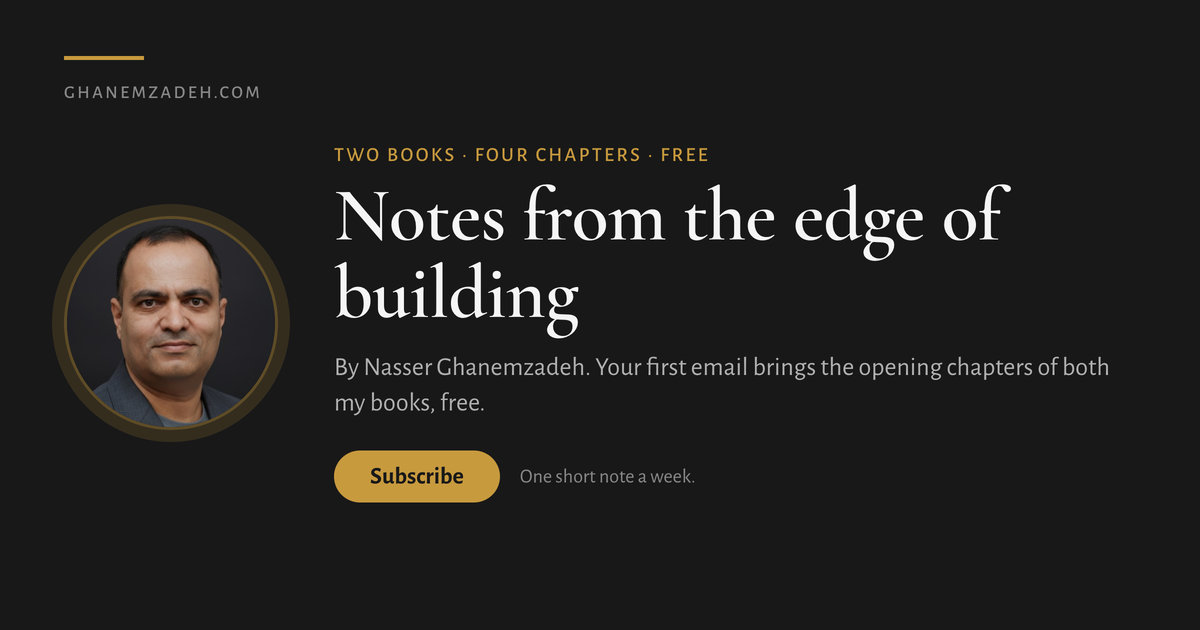
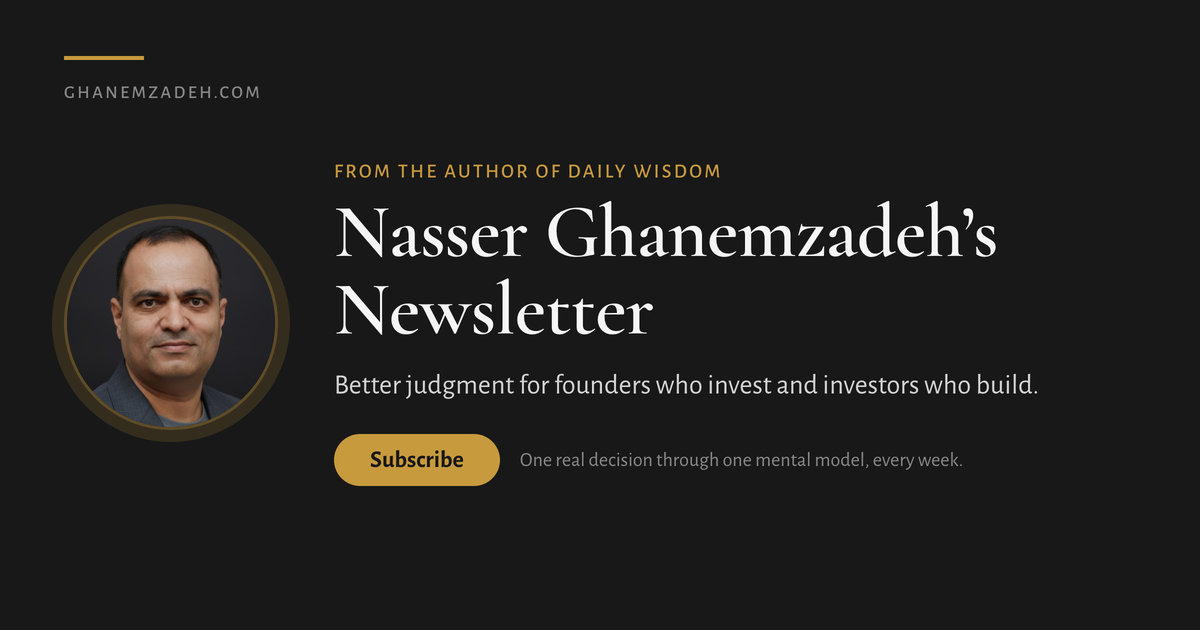
Newsletter: rename and reposition across the site, new preview card
The Substack publication is now "Nasser Ghanemzadeh's Newsletter" with the
subtitle "Better judgment for founders who invest and investors who build."
The site still called it "Notes from the edge of building" and described it
as notes on building AI-native SaaS solo with Claude Code.

- assets/og-newsletter.jpg: re-rendered card. Eyebrow "From the author of
  Daily Wisdom", the new title and subtitle, Subscribe pill with "One real
  decision through one mental model, every week." Bottom 88px still clear.
- newsletter/index.html: og/twitter title, description and image alt carry
  the new copy; image URLs get ?v=20260913 so Cloudflare and X fetch the new
  file. SEO description, JSON-LD Periodical (name + description), hero
  subhead, "Then, every week" section (topics list replaced by a four-item
  description of the one-decision, one-model format) and final CTA updated.
- index.html, forward-deployed-ai-engineer/index.html: newsletter block
  heading is now the subtitle; copy matches the new positioning.
- 404.html, llms.txt: new name and one-line description.
- Footer blurb on all 13 pages: new positioning line.
- scripts/og/newsletter-card.html: new copy; comment notes the ?v= bump
  step for future re-renders.

No CSS change, so no main.css ?v= bump. llms-full.txt regenerated.
JSON-LD validator: 13 pages, 0 errors, 0 warnings.

Claude-Session: https://claude.ai/code/session_01U9CQkRSSubGfgRUgFyfxsh

Changed region(s): [[0.2775, 0.2111, 0.8325, 0.5429], [0.2775, 0.573, 0.925, 0.8143]]

diff --git a/newsletter/index.html b/newsletter/index.html
@@ -11,7 +11,7 @@
   <meta charset="UTF-8">
   <meta name="viewport" content="width=device-width, initial-scale=1.0">
   <title>Free Chapters: Two Books in Your First Email | Nasser Ghanemzadeh</title>
-  <meta name="description" content="Subscribe to Notes from the edge of building and get the first two chapters of Forward Deployed AI Engineering and Founder Mode, free, in your first email.">
+  <meta name="description" content="Subscribe to Nasser Ghanemzadeh’s newsletter and get the first two chapters of Forward Deployed AI Engineering and Founder Mode, free, in your first email.">
   <meta name="author" content="Nasser Ghanemzadeh">
   <link rel="icon" href="/favicon.ico" type="image/x-icon">
   <link rel="icon" type="image/png" sizes="32x32" href="/favicon-32.png">
@@ -30,22 +30,22 @@
   <!-- Open Graph -->
   <meta property="og:type" content="website">
   <meta property="og:site_name" content="Nasser Ghanemzadeh">
-  <meta property="og:title" content="Notes from the edge of building | Nasser Ghanemzadeh">
-  <meta property="og:description" content="Subscribe to Notes from the edge of building and get the first two chapters of Forward Deployed AI Engineering and Founder Mode, free, in your first email.">
+  <meta property="og:title" content="Nasser Ghanemzadeh’s Newsletter">
+  <meta property="og:description" content="Better judgment for founders who invest and investors who build: a weekly letter that runs one real decision through one mental model, from the author of Daily Wisdom.">
   <meta property="og:url" content="https://ghanemzadeh.com/newsletter/">
-  <meta property="og:image" content="https://ghanemzadeh.com/assets/og-newsletter.jpg">
+  <meta property="og:image" content="https://ghanemzadeh.com/assets/og-newsletter.jpg?v=20260913">
   <meta property="og:image:width" content="1200">
   <meta property="og:image:height" content="630">
-  <meta property="og:image:alt" content="Notes from the edge of building, the weekly newsletter by Nasser Ghanemzadeh. Subscribe and get the first two chapters of both his books free.">
+  <meta property="og:image:alt" content="Nasser Ghanemzadeh’s Newsletter. Better judgment for founders who invest and investors who build. A weekly letter from the author of Daily Wisdom.">
 
   <!-- Twitter Card -->
   <meta name="twitter:card" content="summary_large_image">
   <meta name="twitter:site" content="@ghanemzadeh">
   <meta name="twitter:creator" content="@ghanemzadeh">
-  <meta name="twitter:title" content="Notes from the edge of building">
-  <meta name="twitter:description" content="Subscribe and get the first two chapters of Forward Deployed AI Engineering and Founder Mode, free, in your first email.">
-  <meta name="twitter:image" content="https://ghanemzadeh.com/assets/og-newsletter.jpg">
-  <meta name="twitter:image:alt" content="Notes from the edge of building, the weekly newsletter by Nasser Ghanemzadeh. Subscribe and get the first two chapters of both his books free.">
+  <meta name="twitter:title" content="Nasser Ghanemzadeh’s Newsletter">
+  <meta name="twitter:description" content="Better judgment for founders who invest and investors who build: a weekly letter that runs one real decision through one mental model, from the author of Daily Wisdom.">
+  <meta name="twitter:image" content="https://ghanemzadeh.com/assets/og-newsletter.jpg?v=20260913">
+  <meta name="twitter:image:alt" content="Nasser Ghanemzadeh’s Newsletter. Better judgment for founders who invest and investors who build. A weekly letter from the author of Daily Wisdom.">
 
   <script type="application/ld+json">
   {
@@ -89,12 +89,13 @@
         "@id": "https://ghanemzadeh.com/newsletter/#webpage",
         "url": "https://ghanemzadeh.com/newsletter/",
         "name": "Read the first two chapters of both my books. Free.",
-        "description": "Subscribe to Notes from the edge of building and get the first two chapters of Forward Deployed AI Engineering and Founder Mode, free, in your first email.",
+        "description": "Subscribe to Nasser Ghanemzadeh’s newsletter and get the first two chapters of Forward Deployed AI Engineering and Founder Mode, free, in your first email.",
         "inLanguage": "en",
         "isPartOf": {
           "@type": "Periodical",
           "@id": "https://ghanemzadeh.com/newsletter/#periodical",
-          "name": "Notes from the edge of building",
+          "name": "Nasser Ghanemzadeh’s Newsletter",
+          "description": "Better judgment for founders who invest and investors who build: a weekly letter that runs one real decision through one mental model.",
           "creator": { "@id": "https://ghanemzadeh.com/#nasser" },
           "publisher": { "@id": "https://ghanemzadeh.com/#nasser" }
         },
@@ -134,7 +135,7 @@
       <div class="container">
         <p class="eyebrow-num">Two books · Four chapters · Free</p>
         <h1 class="t-display">Read the first two chapters of both my books. <em>Free.</em></h1>
-        <p class="afs-subhead">Subscribe to Notes from the edge of building, my weekly newsletter, and I'll send you the opening chapters of <em>Forward Deployed AI Engineering</em> and <em>Founder Mode</em> in your first email. After that, one short note a week on building AI-native SaaS solo.</p>
+        <p class="afs-subhead">Subscribe to my weekly newsletter and I'll send you the opening chapters of <em>Forward Deployed AI Engineering</em> and <em>Founder Mode</em> in your first email. After that, one short letter a week: one real decision, run through one mental model.</p>
         <div class="nl-hero__covers">
           <div class="nl-hero__cover nl-hero__cover--fde">
             <img src="/assets/book/fde/cover-3d-tight.jpg" alt="Forward Deployed AI Engineering hardcover book" width="440" height="702" fetchpriority="high" decoding="async" loading="eager">
@@ -190,18 +191,17 @@
       <section class="section afs-section--wide nl-band">
         <div class="nl-band__intro">
           <p class="eyebrow-num">03 · Then, every week</p>
-          <h2 class="t-display">One email a week</h2>
-          <p>The newsletter is called Notes from the edge of building. The edge is where I work: building AI-native SaaS solo with Claude Code. No frameworks borrowed from Twitter threads. No promises of overnight scale. Just what is working, what is not, and what I am trying next.</p>
+          <h2 class="t-display">One decision, one mental model</h2>
+          <p>The letter is written for founders who invest and investors who build, and it has one job: better judgment. Each week takes one real decision and runs it through one mental model, the same tools <em>Daily Wisdom</em> works through a page at a time. No frameworks borrowed from Twitter threads. No promises of overnight scale. Just the decision, the model, and what the model says to do.</p>
           <div class="cta-row">
             <a class="cta cta--primary" href="#subscribe">Get the free chapters</a>
           </div>
         </div>
         <ol class="nl-topics-list">
-          <li><span class="nl-num" aria-hidden="true">01</span><p><strong>Forward Deployed AI Engineering in practice.</strong> What works in the field, what the labs are getting right and wrong.</p></li>
-          <li><span class="nl-num" aria-hidden="true">02</span><p><strong>Building AI-native products solo.</strong> Vectig as the live case study, including the failures, plus lessons from Sengi, an earlier build I paused.</p></li>
-          <li><span class="nl-num" aria-hidden="true">03</span><p><strong>Distribution without paid ads.</strong> LinkedIn, warm outreach, the referrer network.</p></li>
-          <li><span class="nl-num" aria-hidden="true">04</span><p><strong>Founder operations.</strong> Cash flow, hiring, scope, the unglamorous middle.</p></li>
-          <li><span class="nl-num" aria-hidden="true">05</span><p><strong>Claude Code workflows.</strong> The specific patterns that make a one-person shop ship like a small team.</p></li>
+          <li><span class="nl-num" aria-hidden="true">01</span><p><strong>One real decision.</strong> A hire, a raise, a price, a term sheet, a pivot. Something with money or trust on the line, not a hypothetical.</p></li>
+          <li><span class="nl-num" aria-hidden="true">02</span><p><strong>One mental model.</strong> Base rates, incentives, inversion, margin of safety. One per letter, in plain words, from the latticework <em>Daily Wisdom</em> builds over a year.</p></li>
+          <li><span class="nl-num" aria-hidden="true">03</span><p><strong>Where the judgment slips.</strong> The misjudgment the model catches, and why it is so easy to miss in the moment.</p></li>
+          <li><span class="nl-num" aria-hidden="true">04</span><p><strong>What to do on Monday.</strong> The same decision, re-run with the model in hand. Short enough to read in one sitting.</p></li>
         </ol>
       </section>
 
@@ -346,7 +346,7 @@
         <div class="nl-final__panel">
           <p class="eyebrow-num">06 · Get the chapters</p>
           <h2 class="t-display">Your first email has the chapters in it.</h2>
-          <p>Then one email a week, built for founders and operators shipping AI-native products in small teams.</p>
+          <p>Then one letter a week: one real decision through one mental model, for founders who invest and investors who build.</p>
           <form class="email-pill" action="https://ghanemzadeh.substack.com/subscribe" method="get" data-substack-redirect data-utm-medium="newsletter_final">
             <label class="visually-hidden" for="sub-email-newsletter-final">Email address</label>
             <input id="sub-email-newsletter-final" type="email" name="email" placeholder="Your email..." required autocomplete="email">
@@ -373,7 +373,7 @@
           </div>
           <div class="site-footer__col">
             <p class="site-footer__heading">Get the newsletter</p>
-            <p class="site-footer__blurb">Weekly notes on Forward Deployed AI Engineering, AI-native product, and what I'm shipping. No filler.</p>
+            <p class="site-footer__blurb">Better judgment for founders who invest and investors who build. One real decision through one mental model, every week.</p>
             <form class="email-pill" data-substack-redirect data-utm-medium="footer">
               <label class="visually-hidden" for="footer-email">Email address</label>
               <input id="footer-email" type="email" name="email" placeholder="Your email..." required autocomplete="email">

diff --git a/index.html b/index.html
@@ -259,7 +259,7 @@
           <li><span class="nl-num" aria-hidden="true">01</span><p><strong><a href="/ai-feature-sprint/">The AI Feature Sprint.</a></strong> Ten business days embedded with a founder-led B2B SaaS team, shipping one narrow AI workflow into the product. Fixed scope, fixed price, a working prototype by Day 5.</p></li>
           <li><span class="nl-num" aria-hidden="true">02</span><p><strong><a href="https://vectig.com" target="_blank" rel="noopener noreferrer">Vectig.</a></strong> AI-native cash flow forecasting for early-stage founders, built solo with Claude Code, in public. It's also my test bench: most Sprint patterns run here before a client sees them.</p></li>
           <li><span class="nl-num" aria-hidden="true">03</span><p><strong>The books.</strong> <a href="/books/daily-wisdom/">Daily Wisdom</a> is a year of one-page meditations on judgment and money, on Kindle pre-order now. <a href="/books/forward-deployed-ai-engineering/">Forward Deployed AI Engineering</a> explains the role. <a href="/book/">Founder Mode</a> explains the operating practice underneath it. For the quick version of the FDE book, read <a href="/forward-deployed-ai-engineer/">what a Forward Deployed AI Engineer is</a>, or browse <a href="/best-forward-deployed-engineer-books/">the best FDE books</a>.</p></li>
-          <li><span class="nl-num" aria-hidden="true">04</span><p><strong><a href="/newsletter/">The newsletter.</a></strong> One email a week: Claude Code workflows, AI product distribution, and the weeks where nothing works.</p></li>
+          <li><span class="nl-num" aria-hidden="true">04</span><p><strong><a href="/newsletter/">The newsletter.</a></strong> One letter a week that runs one real decision through one mental model. Better judgment for founders who invest and investors who build.</p></li>
           <li><span class="nl-num" aria-hidden="true">05</span><p><strong>Earlier projects.</strong> <a href="https://sengi.co" target="_blank" rel="noopener noreferrer">Sengi</a>, a financial OS for freelancers, built solo as a learning vehicle for AI-native financial tooling. Paused to focus on Vectig and the Sprint.</p></li>
         </ol>
       </section>
@@ -356,8 +356,8 @@
       <section class="section afs-section--wide afs-final-cta nl-final">
         <div class="nl-final__panel">
           <p class="eyebrow-num">08 · The newsletter</p>
-          <h2 class="t-display">Notes from the edge of building</h2>
-          <p>One email a week on building AI-native SaaS solo. Subscribe and the first two chapters of both books land in your first email.</p>
+          <h2 class="t-display">Better judgment for founders who invest and investors who build.</h2>
+          <p>One real decision through one mental model, every week. Subscribe and the first two chapters of both books land in your first email.</p>
           <form class="email-pill" data-substack-redirect data-utm-medium="home">
             <label class="visually-hidden" for="sub-email-home">Email address</label>
             <input id="sub-email-home" type="email" name="email" placeholder="Your email..." required autocomplete="email">
@@ -385,7 +385,7 @@
           </div>
           <div class="site-footer__col">
             <p class="site-footer__heading">Get the newsletter</p>
-            <p class="site-footer__blurb">Weekly notes on Forward Deployed AI Engineering, AI-native product, and what I'm shipping. No filler.</p>
+            <p class="site-footer__blurb">Better judgment for founders who invest and investors who build. One real decision through one mental model, every week.</p>
             <form class="email-pill" data-substack-redirect data-utm-medium="footer">
               <label class="visually-hidden" for="footer-email">Email address</label>
               <input id="footer-email" type="email" name="email" placeholder="Your email..." required autocomplete="email">

diff --git a/scripts/og/newsletter-card.html b/scripts/og/newsletter-card.html
@@ -7,8 +7,11 @@
   Source template for assets/og-newsletter.jpg, the link-preview image used by
   /newsletter/ on X, LinkedIn, Slack and messaging apps. Render with:
     python3 scripts/og/render.py scripts/og/newsletter-card.html assets/og-newsletter.jpg
+  Then bump the ?v= date on the og:image / twitter:image URLs in newsletter/index.html,
+  because Cloudflare edge-caches the JPEG for hours and X caches whatever it first fetched.
   Self-contained on purpose: no /main.css link, so a CSS edit here never needs a
   cache-bust bump. Colors mirror the :root tokens in main.css.
+  Bottom 88px stay clear: X draws its title pill over that strip.
 -->
 <link rel="preconnect" href="https://fonts.googleapis.com">
 <link rel="preconnect" href="https://fonts.gstatic.com" crossorigin>
@@ -24,7 +27,7 @@
   .text { max-width: 800px; }
   .eyebrow { font-size: 20px; font-weight: 500; letter-spacing: .12em; text-transform: uppercase; color: #c89a3e; }
   .title { margin: 10px 0 0; font-family: "Cormorant Garamond", Georgia, serif; font-weight: 600; font-size: 76px; line-height: 1.02; letter-spacing: -.01em; color: #f5f5f5; }
-  .hook { margin: 18px 0 0; font-size: 26px; line-height: 1.35; color: #b0b0b0; }
+  .hook { margin: 18px 0 0; font-size: 28px; line-height: 1.35; color: #d4d4d4; }
   .row { margin-top: 30px; display: flex; align-items: center; gap: 20px; }
   .pill { display: inline-block; padding: 14px 36px; border-radius: 999px; background: #c89a3e; color: #181818; font-size: 24px; font-weight: 700; line-height: 1; }
   .cadence { font-size: 20px; color: #888; }
@@ -37,10 +40,10 @@
   <div class="body">
     <img class="photo" src="../../assets/profile.jpg" alt="">
     <div class="text">
-      <div class="eyebrow">Two books · Four chapters · Free</div>
-      <h1 class="title">Notes from the edge of building</h1>
-      <p class="hook">By Nasser Ghanemzadeh. Your first email brings the opening chapters of both my books, free.</p>
-      <div class="row"><span class="pill">Subscribe</span><span class="cadence">One short note a week.</span></div>
+      <div class="eyebrow">From the author of Daily Wisdom</div>
+      <h1 class="title">Nasser Ghanemzadeh’s Newsletter</h1>
+      <p class="hook">Better judgment for founders who invest and investors who build.</p>
+      <div class="row"><span class="pill">Subscribe</span><span class="cadence">One real decision through one mental model, every week.</span></div>
     </div>
   </div>
 </div>

diff --git a/forward-deployed-ai-engineer/index.html b/forward-deployed-ai-engineer/index.html
@@ -424,8 +424,8 @@
       <section class="section afs-section--wide afs-final-cta nl-final">
         <div class="nl-final__panel">
           <p class="eyebrow-num">Newsletter</p>
-          <h2 class="t-display">Notes from the edge of building</h2>
-          <p>One email a week on Forward Deployed AI Engineering, building AI-native SaaS solo with Claude Code, and the slow weeks in between. Subscribing also gets you the first two chapters of both my books.</p>
+          <h2 class="t-display">Better judgment for founders who invest and investors who build.</h2>
+          <p>One letter a week that runs one real decision through one mental model. Subscribing also gets you the first two chapters of both my books.</p>
           <form class="email-pill" data-substack-redirect data-utm-medium="fde_pillar">
             <label class="visually-hidden" for="sub-email-fde-role">Email address</label>
             <input id="sub-email-fde-role" type="email" name="email" placeholder="Your email..." required autocomplete="email">
@@ -453,7 +453,7 @@
           </div>
           <div class="site-footer__col">
             <p class="site-footer__heading">Get the newsletter</p>
-            <p class="site-footer__blurb">Weekly notes on Forward Deployed AI Engineering, AI-native product, and what I'm shipping. No filler.</p>
+            <p class="site-footer__blurb">Better judgment for founders who invest and investors who build. One real decision through one mental model, every week.</p>
             <form class="email-pill" data-substack-redirect data-utm-medium="footer">
               <label class="visually-hidden" for="footer-email">Email address</label>
               <input id="footer-email" type="email" name="email" placeholder="Your email..." required autocomplete="email">

diff --git a/404.html b/404.html
@@ -59,7 +59,7 @@
         <p><strong><a href="/ai-feature-sprint/">AI Feature Sprint</a>.</strong> Ship one narrow AI workflow into your B2B SaaS product in 10 business days.</p>
         <p><strong><a href="/books/forward-deployed-ai-engineering/">Forward Deployed AI Engineering</a>.</strong> A working guide to the role OpenAI and Anthropic just put on the map.</p>
         <p><strong><a href="/book/">Founder Mode</a>.</strong> How the great companies are actually built.</p>
-        <p><strong><a href="/newsletter/">Newsletter</a>.</strong> Weekly notes on building AI-native SaaS solo with Claude Code.</p>
+        <p><strong><a href="/newsletter/">Newsletter</a>.</strong> Better judgment for founders who invest and investors who build, one decision a week.</p>
       </section>
     </main>
 

diff --git a/ai-feature-sprint/index.html b/ai-feature-sprint/index.html
@@ -716,7 +716,7 @@
           </div>
           <div class="site-footer__col">
             <p class="site-footer__heading">Get the newsletter</p>
-            <p class="site-footer__blurb">Weekly notes on Forward Deployed AI Engineering, AI-native product, and what I'm shipping. No filler.</p>
+            <p class="site-footer__blurb">Better judgment for founders who invest and investors who build. One real decision through one mental model, every week.</p>
             <form class="email-pill" data-substack-redirect data-utm-medium="footer">
               <label class="visually-hidden" for="footer-email">Email address</label>
               <input id="footer-email" type="email" name="email" placeholder="Your email..." required autocomplete="email">

diff --git a/best-forward-deployed-engineer-books/index.html b/best-forward-deployed-engineer-books/index.html
@@ -244,7 +244,7 @@
           </div>
           <div class="site-footer__col">
             <p class="site-footer__heading">Get the newsletter</p>
-            <p class="site-footer__blurb">Weekly notes on Forward Deployed AI Engineering, AI-native product, and what I'm shipping. No filler.</p>
+            <p class="site-footer__blurb">Better judgment for founders who invest and investors who build. One real decision through one mental model, every week.</p>
             <form class="email-pill" data-substack-redirect data-utm-medium="footer">
               <label class="visually-hidden" for="footer-email">Email address</label>
               <input id="footer-email" type="email" name="email" placeholder="Your email..." required autocomplete="email">

diff --git a/book/index.html b/book/index.html
@@ -272,7 +272,7 @@
           </div>
           <div class="site-footer__col">
             <p class="site-footer__heading">Get the newsletter</p>
-            <p class="site-footer__blurb">Weekly notes on Forward Deployed AI Engineering, AI-native product, and what I'm shipping. No filler.</p>
+            <p class="site-footer__blurb">Better judgment for founders who invest and investors who build. One real decision through one mental model, every week.</p>
             <form class="email-pill" data-substack-redirect data-utm-medium="footer">
               <label class="visually-hidden" for="footer-email">Email address</label>
               <input id="footer-email" type="email" name="email" placeholder="Your email..." required autocomplete="email">

diff --git a/books/daily-wisdom/index.html b/books/daily-wisdom/index.html
@@ -511,7 +511,7 @@
           </div>
           <div class="site-footer__col">
             <p class="site-footer__heading">Get the newsletter</p>
-            <p class="site-footer__blurb">Weekly notes on Forward Deployed AI Engineering, AI-native product, and what I'm shipping. No filler.</p>
+            <p class="site-footer__blurb">Better judgment for founders who invest and investors who build. One real decision through one mental model, every week.</p>
             <form class="email-pill" data-substack-redirect data-utm-medium="footer">
               <label class="visually-hidden" for="footer-email">Email address</label>
               <input id="footer-email" type="email" name="email" placeholder="Your email..." required autocomplete="email">

diff --git a/books/forward-deployed-ai-engineering/index.html b/books/forward-deployed-ai-engineering/index.html
@@ -431,7 +431,7 @@
           </div>
           <div class="site-footer__col">
             <p class="site-footer__heading">Get the newsletter</p>
-            <p class="site-footer__blurb">Weekly notes on Forward Deployed AI Engineering, AI-native product, and what I'm shipping. No filler.</p>
+            <p class="site-footer__blurb">Better judgment for founders who invest and investors who build. One real decision through one mental model, every week.</p>
             <form class="email-pill" data-substack-redirect data-utm-medium="footer">
               <label class="visually-hidden" for="footer-email">Email address</label>
               <input id="footer-email" type="email" name="email" placeholder="Your email..." required autocomplete="email">

diff --git a/books/index.html b/books/index.html
@@ -240,7 +240,7 @@
           </div>
           <div class="site-footer__col">
             <p class="site-footer__heading">Get the newsletter</p>
-            <p class="site-footer__blurb">Weekly notes on Forward Deployed AI Engineering, AI-native product, and what I'm shipping. No filler.</p>
+            <p class="site-footer__blurb">Better judgment for founders who invest and investors who build. One real decision through one mental model, every week.</p>
             <form class="email-pill" data-substack-redirect data-utm-medium="footer">
               <label class="visually-hidden" for="footer-email">Email address</label>
               <input id="footer-email" type="email" name="email" placeholder="Your email..." required autocomplete="email">

diff --git a/discovery-day/index.html b/discovery-day/index.html
@@ -372,7 +372,7 @@
           </div>
           <div class="site-footer__col">
             <p class="site-footer__heading">Get the newsletter</p>
-            <p class="site-footer__blurb">Weekly notes on Forward Deployed AI Engineering, AI-native product, and what I'm shipping. No filler.</p>
+            <p class="site-footer__blurb">Better judgment for founders who invest and investors who build. One real decision through one mental model, every week.</p>
             <form class="email-pill" data-substack-redirect data-utm-medium="footer">
               <label class="visually-hidden" for="footer-email">Email address</label>
               <input id="footer-email" type="email" name="email" placeholder="Your email..." required autocomplete="email">
